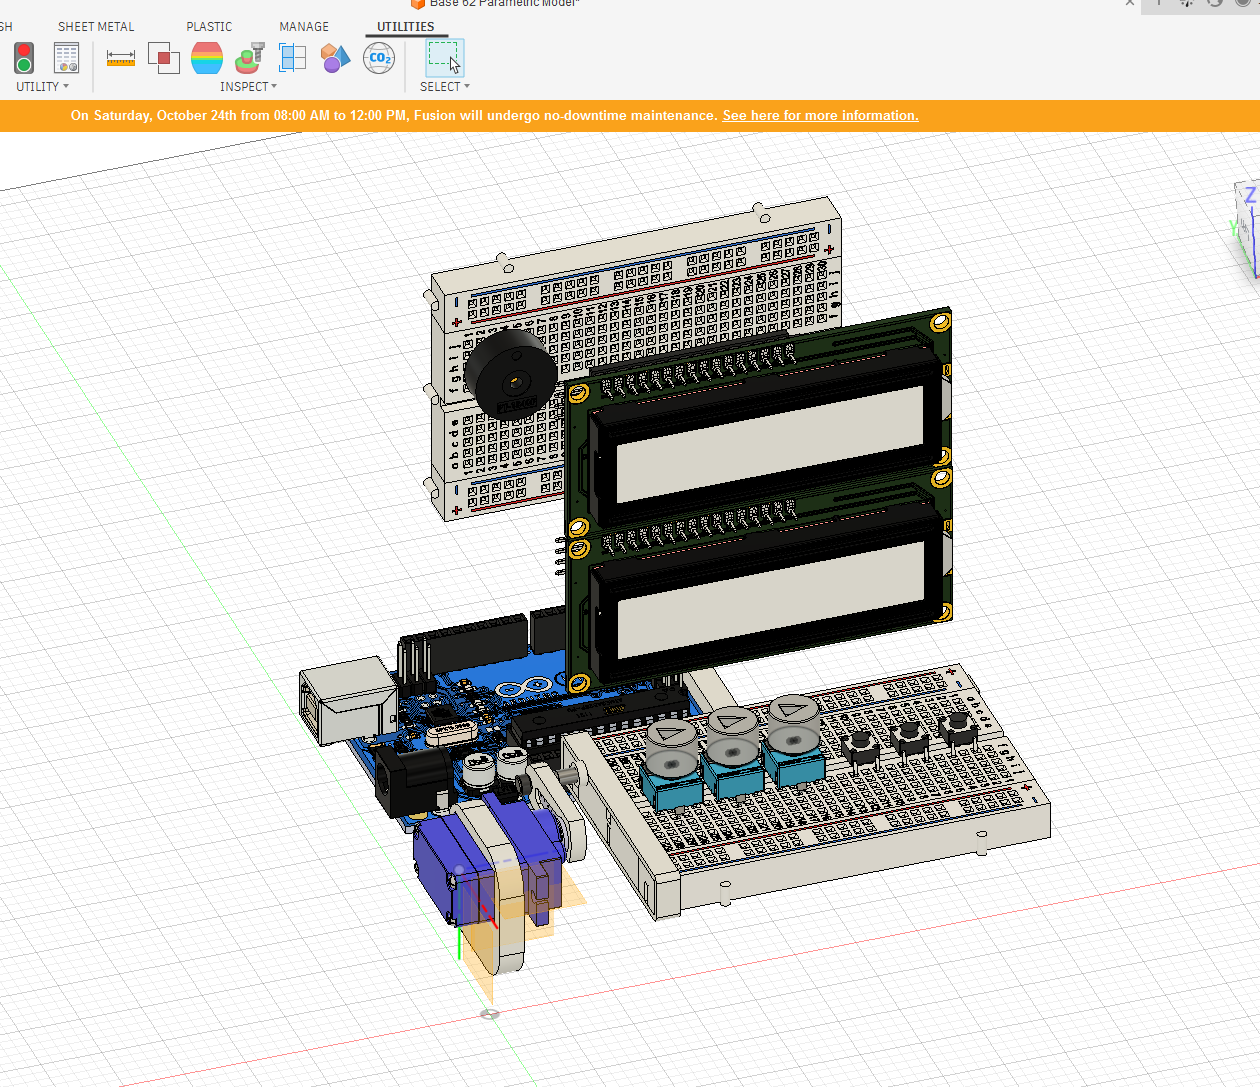
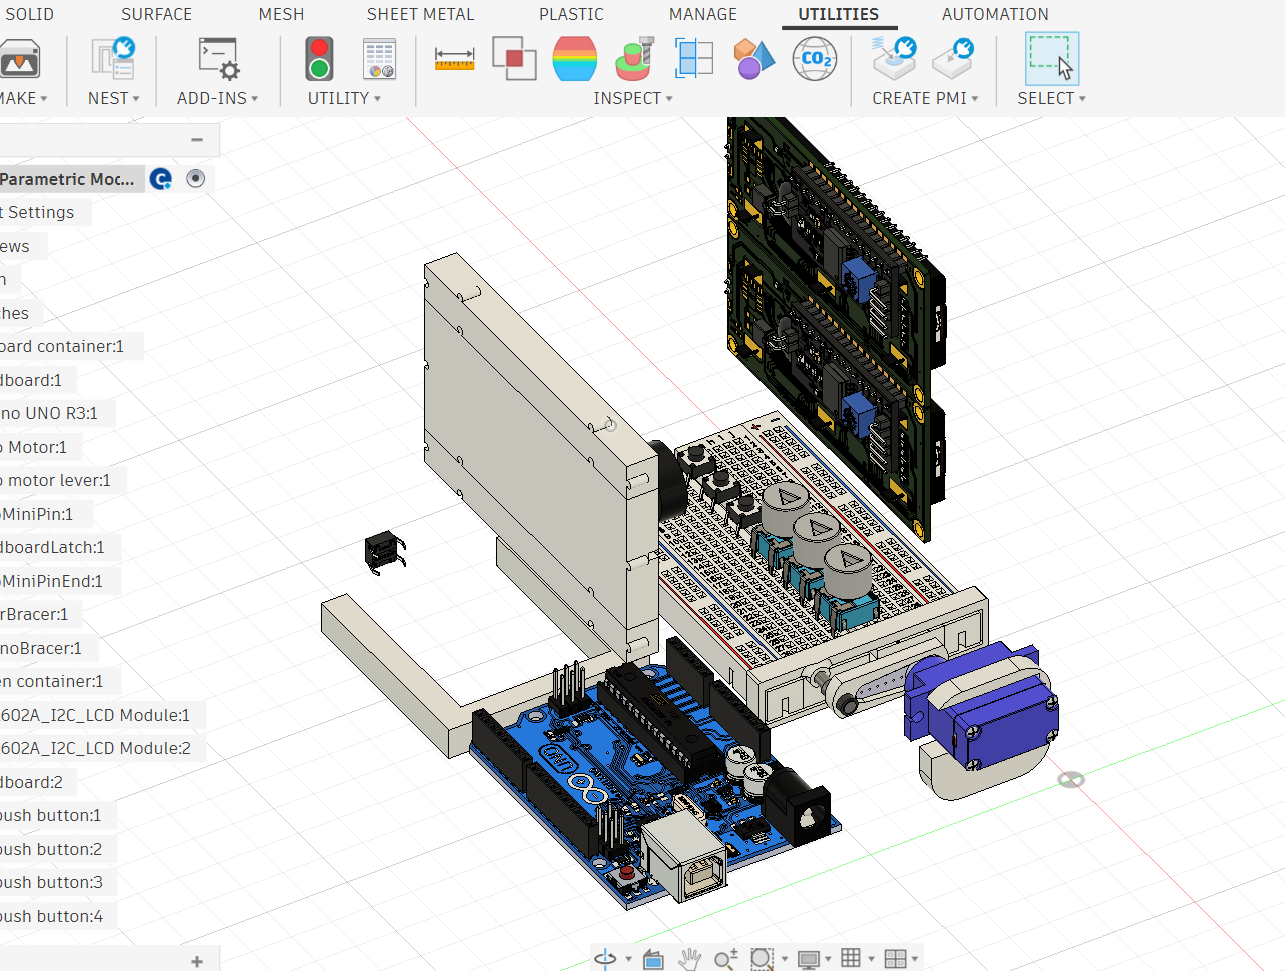
Journaling + a lot of picture imports and updates

diff --git a/JOURNAL.md b/JOURNAL.md
@@ -235,24 +235,77 @@
         - yayy
 25. IRL
     - technically this is hour 29??? ...
+    - Fixed the sketches for the front screen and left keyboard panels
+        - The tolerance wasn't enough apparently for the LCDs ```-_-```
+        - Left panel nearly broke my servo motor's cable 'cause of the force I had to use to squeeze it through
+        - My actual picture of the final drawing will have a sawed out hole to insert the cable more elegantly
+            - try cutting wood with an exacto knife
     - Couldn't lapse at the workshop
         - Yes to clarify I am using my school's workshop to make this passion project...
-        - Fraud squad please don't kill me
+        - FS please don't kill me
     - 3D printed all parts (pins, component bracing stuff, etc.)
-    - <p align="left">
-    <img src="./images/pending.png" width="300" height="300" alt="[pending]">
-    </p>
     - laser cutting the frames
         - Gotta love that smell of burnt wood ```:>```
         - <p align="left">
-        <img src="./images/pending.png" width="300" height="300" alt="[pending]">
+        <img src="./images/IMG_20261030_003222792_HDR.jpg" width="300" height="300" alt="Laser cut frame (initial placement)">
         </p>
     - Assembling the computer/calculator/whatever you will call this thing
     - <p align="left">
-    <img src="./images/pending.png" width="300" height="300" alt="[pending]">
+    <img src="./images/IMG_20261030_015234513_HDR.jpg" width="300" height="300" alt="Beginning to (re)assemble the internal circuit">
+    </p>
+    - <p align="left">
+    <img src="./images/IMG_20261030_015232035_HDR.jpg" width="300" height="300" alt="Beginning to (re)assemble the internal circuit">
+    </p>
+    - <p align="left">
+    <img src="./images/IMG_20261030_021416543_HDR.jpg" width="300" height="300" alt="Signs of life...somehow working">
+    </p>
+    - <p align="left">
+    <img src="./images/IMG_20261030_021421128_HDR.jpg" width="300" height="300" alt="the messy workspace">
     </p>
 
+    - Video Demo <a href="https://drive.google.com/file/d/1PXX1xwDs2nfNQW8c9PEKmnLDRVlhruzG/view?usp=sharing" target="_blank">here</a>
+
+26. Fusion | VS Code (long journal)
+    - technically hours 30, 31, and 32?
+        - This took awhile due to constant remeasurements
+        - I love my starrett digital caliper, dial calipers make me go insane
+    - Fixed the laser cut sketches to match the original design more
+        - Was too lazy to add the triangle originally for the LCD screen panel
+        - Added the sawed out cable hole in to the design (very arbitrarily) so that the next person doesn't go breaking their servo motor
+    - Fixed the following 3D models (basically all of them)
+        - Arduino uno bracer wasn't extended enough and the arduino would literally dig itself into the box when the power cable was attempted to be used
+        - Most of the flagship parts had incorrect measurements...
+        - The potentiometer knobs had to be widened 'cause the original diameter was 2 times too small
+            - editting this made me realize that parametric designs have the annoyance of "everything breaks whne you mess around with the timeline"
+            - <p align="left">
+            <img src="./images\スクリーンショット 2026-11-07 220115.png" width="300" height="300" alt="Editted potentiometer knobs">
+            </p>
+        - Fixed the servo motor horn latch 'cause I forgot every manufacturer likes to make their own proprietary one
+            - the new one should fit most single horned setups (I wonder if I added too much tolerance)
+        - The Pin, pin ring, servo motor latch pin insert were all editted to accomodate a set diameter of 3 mm
+            - Don't ask me why it wasn't the same before
+        - The servo motor bracer now attaches from the side
+            - 'cause my dumb ahh, didn't realize that there was absolutely no way to insert it irl
+            - <p align="left">
+            <img src="./images/スクリーンショット 2026-11-07 220039.png" width="300" height="300" alt="editted servo motor bracer">
+            </p>
+        - Breadboard holder-gripper-thingy had the most edits
+            - First, The sticker underneath every breadboard actually serves a purpose for once, it is now a cushion inside the latch (which I also had to increase in scale + tolerance) so that I can put an arbitrary amount of tolerance and everything should still be fine...
+            - Reinforced the pin connector with a fillet because when I first printed it, the literal slot to the pin just snapped (it was basically hanging on a thread)
+        - <p align="left">
+        <img src="./images/スクリーンショット 2026-11-07 220008.png" width="300" height="300" alt="Keyboard launching system">
+        </p>
+        - <p align="left">
+        <img src="./images/スクリーンショット 2026-11-07 220019.png" width="300" height="300" alt="Keyboard launching system (pin system only)">
+        </p>
+        - <p align="left">
+        <img src="./images/スクリーンショット 2026-11-07 220227.png" width="300" height="300" alt="supposedly finished interior (circuits)">
+        </p>
+        - Off camera wood gluing at the workshop ('cause I barely have any at home)
+            - Picture of the final product with all of the printed parts will arrive "shortly"
+    
 
 
 #### arivvid27:
 > However long he spent making the original simplified prototype for the conversion/calculation functions
+- Was unfortunately scrapped due to insufficient (RAM) memory rationing...
